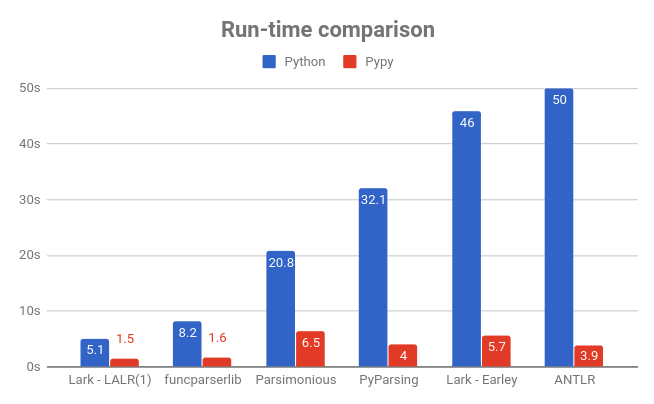
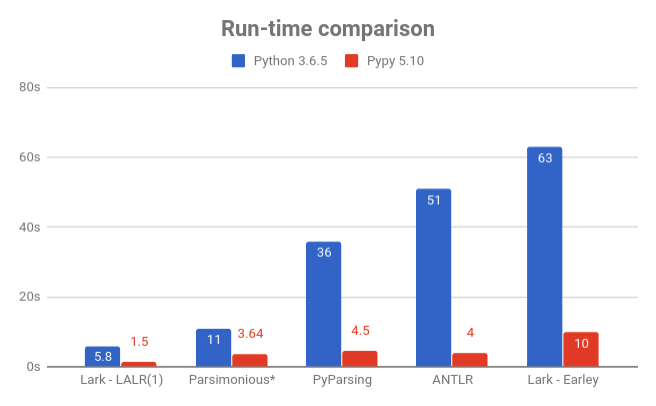
Updated docs (pitch & benchmarks)

diff --git a/README.md b/README.md
@@ -4,7 +4,7 @@ Parse any context-free grammar, FAST and EASY!
 
 **Beginners**: Lark is not just another parser. It can parse any grammar you throw at it, no matter how complicated or ambiguous, and do so efficiently. It also constructs a parse-tree for you, without additional code on your part.
 
-**Experts**: Lark lets you choose between Earley and LALR(1), to trade-off power and speed. It also contains a CYK parser and unique features such as a contextual-lexer.
+**Experts**: Lark implements both Earley(SPPF) and LALR(1), and several different lexers, so you can trade-off power and speed, according to your requirements. It also provides a variety of sophisticated features and utilities.
 
 Lark can:
 
@@ -21,11 +21,10 @@ Most importantly, Lark will save you time and prevent you from getting parsing h
 ### Quick links
 
 - [Documentation @readthedocs](https://lark-parser.readthedocs.io/)
-- [Tutorial](/docs/json_tutorial.md) for writing a JSON parser.
 - [Cheatsheet (PDF)](/docs/lark_cheatsheet.pdf)
+- [Tutorial](/docs/json_tutorial.md) for writing a JSON parser.
 - Blog post: [How to write a DSL with Lark](http://blog.erezsh.com/how-to-write-a-dsl-in-python-with-lark/)
-- [Forum @googlegroups](https://groups.google.com/forum/#!forum/lark-parser)
-- [Gitter chat](https://gitter.im/lark-parser/Lobby) (New)
+- [Gitter chat](https://gitter.im/lark-parser/Lobby)
 
 ### Install Lark
 
@@ -114,6 +113,8 @@ Check out the [JSON tutorial](/docs/json_tutorial.md#conclusion) for more detail
 
 *Note: I really wanted to add PLY to the benchmark, but I couldn't find a working JSON parser anywhere written in PLY. If anyone can point me to one that actually works, I would be happy to add it!*
 
+*Note 2: The parsimonious code has been optimized for this specific test, unlike the other benchmarks (Lark included). Its "real-world" performance may not be as good.*
+
 #### Feature comparison
 
 | Library | Algorithm | Grammar | Builds tree? | Supports ambiguity? | Can handle every CFG? | Line/Column tracking | Generates Stand-alone
@@ -122,7 +123,6 @@ Check out the [JSON tutorial](/docs/json_tutorial.md#conclusion) for more detail
 | [PLY](http://www.dabeaz.com/ply/) | LALR(1) | BNF | No | No | No | No | No |
 | [PyParsing](http://pyparsing.wikispaces.com/) | PEG | Combinators | No | No | No\* | No | No |
 | [Parsley](https://pypi.python.org/pypi/Parsley) | PEG | EBNF | No | No | No\* | No | No |
-| [funcparserlib](https://github.com/vlasovskikh/funcparserlib) | Recursive-Descent | Combinators | No | No | No | No | No |
 | [Parsimonious](https://github.com/erikrose/parsimonious) | PEG | EBNF | Yes | No | No\* | No | No |
 | [ANTLR](https://github.com/antlr/antlr4) | LL(*) | EBNF | Yes | No | Yes? | Yes | No |
 

diff --git a/docs/features.md b/docs/features.md
@@ -1,8 +1,8 @@
 # Main Features
  - Earley parser, capable of parsing any context-free grammar
    - Implements SPPF, for efficient parsing and storing of ambiguous grammars.
- - LALR(1) parser, limited in power of expression, but efficient in space and performance (O(n)).
-   - Implements a parse-aware lexer that provides a better power of expression than traditional implementations.
+ - LALR(1) parser, limited in power of expression, but very efficient in space and performance (O(n)).
+   - Implements a parse-aware lexer that provides a better power of expression than traditional LALR implementations (such as ply).
  - EBNF-inspired grammar, with extra features (See: [Grammar Reference](grammar.md))
  - Builds a parse-tree (AST) automagically based on the grammar
  - Stand-alone parser generator - create a small independent parser to embed in your project.
